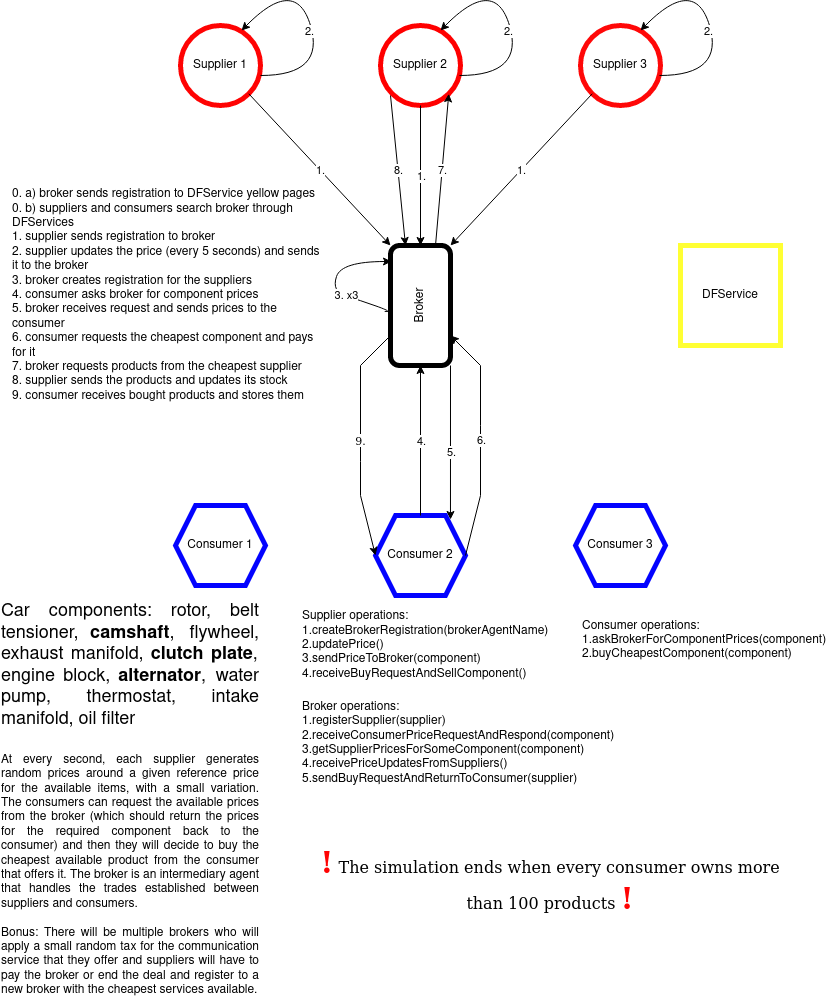
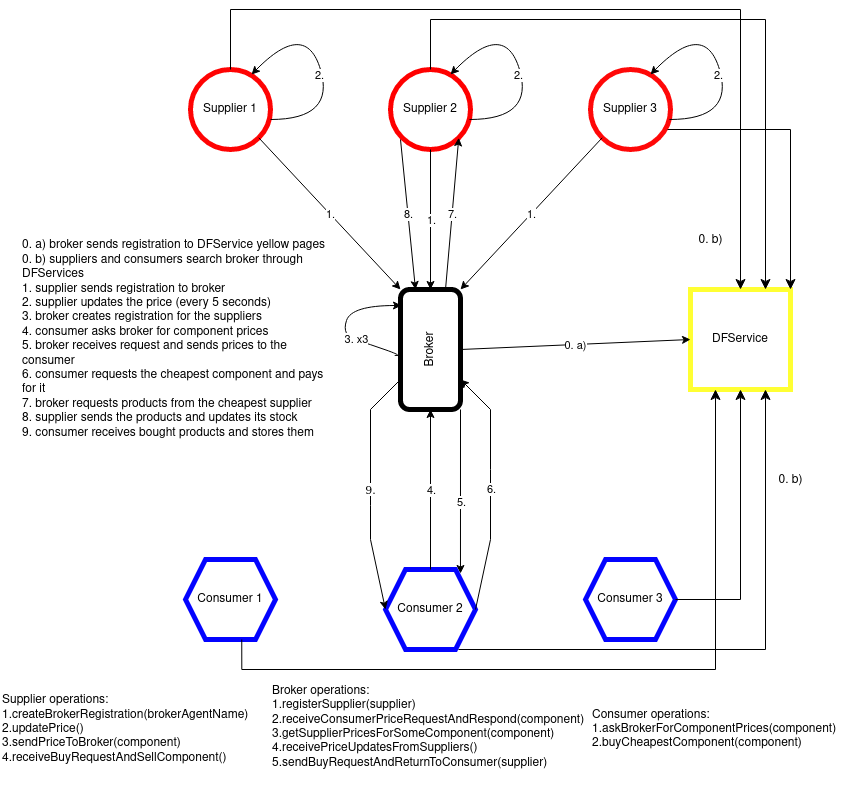
Update diagram

diff --git a/README.md b/README.md
@@ -3,9 +3,9 @@ A simple market simulation written in Java using the JADE agent development fram
 
 ## Simulation description
 
-At every second, each supplier generates random prices around a given reference price for the available items, with a small variation. The consumers can request the available prices from the broker (which should return the prices for the required component back to the consumer) and then they will decide to buy the cheapest available product from the consumer that offers it. The broker is an intermediary agent that handles the trades established between suppliers and consumers.
+Every 5 seconds, each supplier generates random prices around a given reference price for the available items, with a small variation of maximum 20%. At every 10 seconds, the consumers can request the available prices from the broker (which should return the prices for the required component from the suppliers back to the consumer) and then they will decide to buy the cheapest available product from the consumer that offers it. The broker is an intermediary agent that handles the trades established between suppliers and consumers.
 
-Bonus idea if there is time left: There will be multiple brokers who will apply a small random tax for the communication service that they offer and suppliers will have to pay the broker or end the deal and register to a new broker with the cheapest services available.
+Bonus: There will be multiple brokers who will apply a small random tax for the communication service that they offer and suppliers will have to pay the broker or end the deal and register to a new broker with the cheapest services available.
 
 ## Diagram
 
